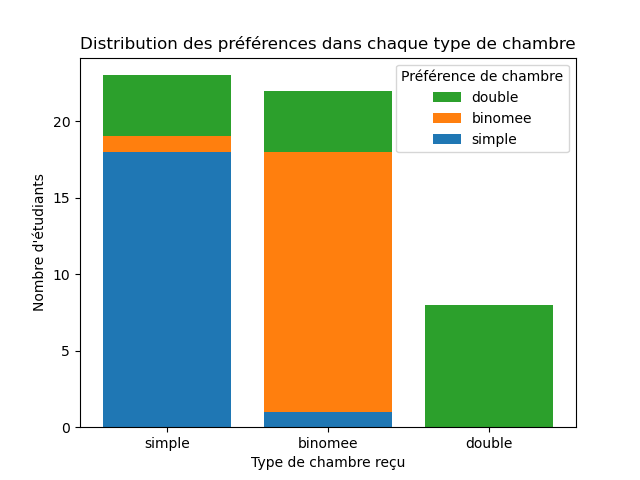
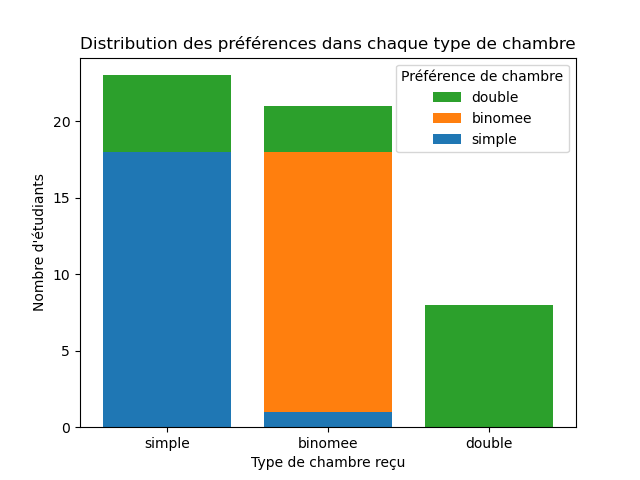
Enhance analytics

Changed region(s): [[0.1562, 0.2812, 0.375, 0.3438], [0.4062, 0.1875, 0.625, 0.2188]]

diff --git a/analytics.py b/analytics.py
@@ -89,7 +89,10 @@ def neutral_selection_ratio(attributions, requests_list):
     return nb_neutral, ratio
 
 
-def mean_median_std(attributions, requests, attribute):
+def mean_median_std(attributions, requests, attribute, threshold=None):
+    if threshold:
+        requests = [request for request in requests if request.distance < threshold]
+        attributions = [attribution for attribution in attributions if attribution.request.distance < threshold]
     attribute_getter = operator.attrgetter(attribute)
     overall_attributes = [attribute_getter(request) for request in requests]
     selected_attributes = [attribute_getter(attribution.request) for attribution in attributions]
@@ -106,22 +109,26 @@ def primary_criteria_overview(attributions, requests_list, solution_name, thresh
     distances = [request.distance for request in requests_list]
     ranks = [request.shotgun_rank for request in requests_list]
     scholarships = [['x', 's'][request.scholarship] for request in requests_list]  # requests with scholarship are identified by a square
-    selected_requests = ['b' for _ in range(len(requests_list))]
+    selected_requests = ['tab:blue' for _ in range(len(requests_list))]
     for attribution in attributions:
-        selected_requests[id_to_idx[attribution.request.student_id]] = 'r'  # selected requests are identified in red
+        selected_requests[id_to_idx[attribution.request.student_id]] = 'tab:red'  # selected requests are identified in red
 
     # plot
     plt.figure()
     for (distance, rank, scholarship, selection) in zip(distances, ranks, scholarships, selected_requests):
         plt.scatter(distance, rank, color=selection, marker=scholarship)
-    plt.title("Synthèse des critères primaires des demandes et de leur sélection")
+    plt.plot([params.paris_threshold, params.paris_threshold], [0, len(requests)], 'k--', linewidth=2)
+    plt.plot([params.foreign_threshold, params.foreign_threshold], [0, len(requests)], 'k-.', linewidth=2)
+    # plt.title("Synthèse des critères primaires des demandes et de leur sélection")
     plt.xlabel("Distance des Ponts")
     plt.ylabel("Rang dans le shotgun")
-    blue_dot = mlines.Line2D([], [], color='b', linewidth=0, marker='o', label='Étudiant disqualifié')
-    red_dot = mlines.Line2D([], [], color='r', linewidth=0, marker='o', label='Étudiant sélectionnée')
+    blue_dot = mlines.Line2D([], [], color='tab:blue', linewidth=0, marker='o', label='Étudiant disqualifié')
+    red_dot = mlines.Line2D([], [], color='tab:red', linewidth=0, marker='o', label='Étudiant sélectionné')
     cross = mlines.Line2D([], [], color='k', linewidth=0, marker='x', label='Étudiant non boursier')
     square = mlines.Line2D([], [], color='k', linewidth=0, marker='s', label='Étudiant boursier')
-    plt.legend(handles=[blue_dot, red_dot, cross, square])
+    dashed_line = mlines.Line2D([0, 0], [0, 1], linestyle='--', linewidth=2, color='k', label='Seuil $50 km$')
+    dash_dotted_line = mlines.Line2D([0, 0], [0, 1], linestyle='-.', linewidth=2, color='k', label='Seuil $800 km$')
+    plt.legend(handles=[blue_dot, red_dot, cross, square, dashed_line, dash_dotted_line], loc="upper right")
     plt.plot()
     plt.savefig(f"figures/solutions_analytics/primary-criteria-overview_{solution_name}")
 
@@ -144,7 +151,7 @@ def room_type_preference_satfisfaction(attributions, solution_name):
     for room_type in range(nb_room_types):
         chart_layers.append(plt.bar(x, pref_vs_rec_matrix[room_type], width, bottom=bottom))
         bottom += pref_vs_rec_matrix[room_type]
-    plt.title("Distribution des préférences dans chaque type de chambre")
+    # plt.title("Distribution des préférences dans chaque type de chambre")
     plt.ylabel("Nombre d'étudiants")
     plt.xlabel("Type de chambre reçu")
     plt.xticks(x, room_labels)
@@ -176,12 +183,12 @@ def friendship_satisfaction(attributions):
 
 
 if __name__ == "__main__":
-    instance = "large"
-    # instance = "real"
+    # instance = "large"
+    instance = "real"
 
     print("Loading attributions...")
-    rooms_file, requests_file = params.files[instance]
-    # rooms_file, requests_file = "db/chambre.json", "db/eleves_demande.json"
+    # rooms_file, requests_file = params.files[instance]
+    rooms_file, requests_file = "db/chambre.json", "db/eleves_demande.json"
     attributions = load_attributions(rooms_file, requests_file, instance)
 
     print("Loading requests and rooms [", instance, "] ...")
@@ -194,7 +201,7 @@ if __name__ == "__main__":
     # Primary criteria
     print("number of requests :", len(requests))
     print("total capacity:", sum([room.capacity for room in rooms]))
-    overall_distance_mean, overall_distance_median, overall_distance_std, selected_distance_mean, selected_distance_median, selected_distance_std = mean_median_std(attributions, requests, "distance")
+    overall_distance_mean, overall_distance_median, overall_distance_std, selected_distance_mean, selected_distance_median, selected_distance_std = mean_median_std(attributions, requests, "distance", threshold=3000)
     print("overall distance mean, median and std :", overall_distance_mean, overall_distance_median, overall_distance_std)
     print("selected distance mean, median and std :", selected_distance_mean, selected_distance_median, selected_distance_std)
     _, _, _, shotgun_mean, shotgun_median, _ = mean_median_std(attributions, requests, "shotgun_rank")
@@ -202,13 +209,14 @@ if __name__ == "__main__":
     nb_distant, distant_ratio = distance_selection_ratio(attributions, requests, 800)
     print("number of distant:", nb_distant)
     print("distant (selected_ratio/overall_ratio) :", distant_ratio)
+    distances_box_plot(attributions, requests, instance)
     nb_scholarships, scholarship_ratio = scholarship_selection_ratio(attributions, requests)
     print("number of scholarships:", nb_scholarships)
     print("scholarship (selected_ratio/overall_ratio) :", scholarship_ratio)
     nb_neutrals, neutral_ratio = neutral_selection_ratio(attributions, requests)
     print("number of neutral:", nb_neutrals)
     print("neutral (selected_ratio/overall_ratio) :", neutral_ratio)
-    primary_criteria_overview(attributions, requests, instance, threshold=10000)
+    primary_criteria_overview(attributions, requests, instance, threshold=3000)
 
     # Secondary criteria
     room_type_preference_satfisfaction(attributions, instance)
